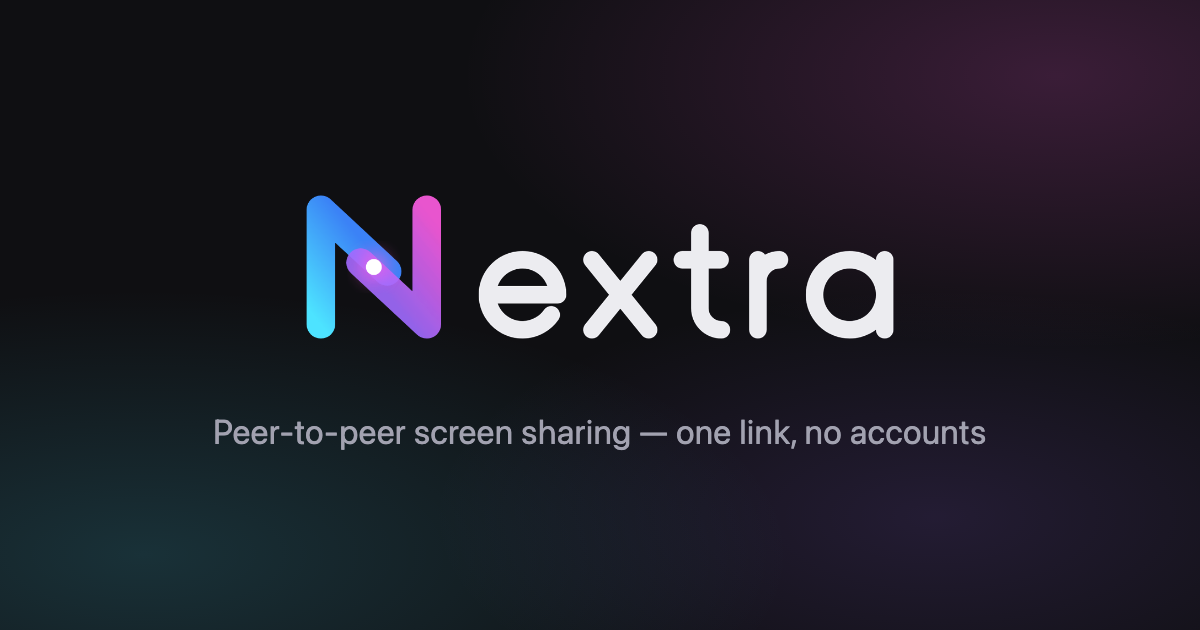
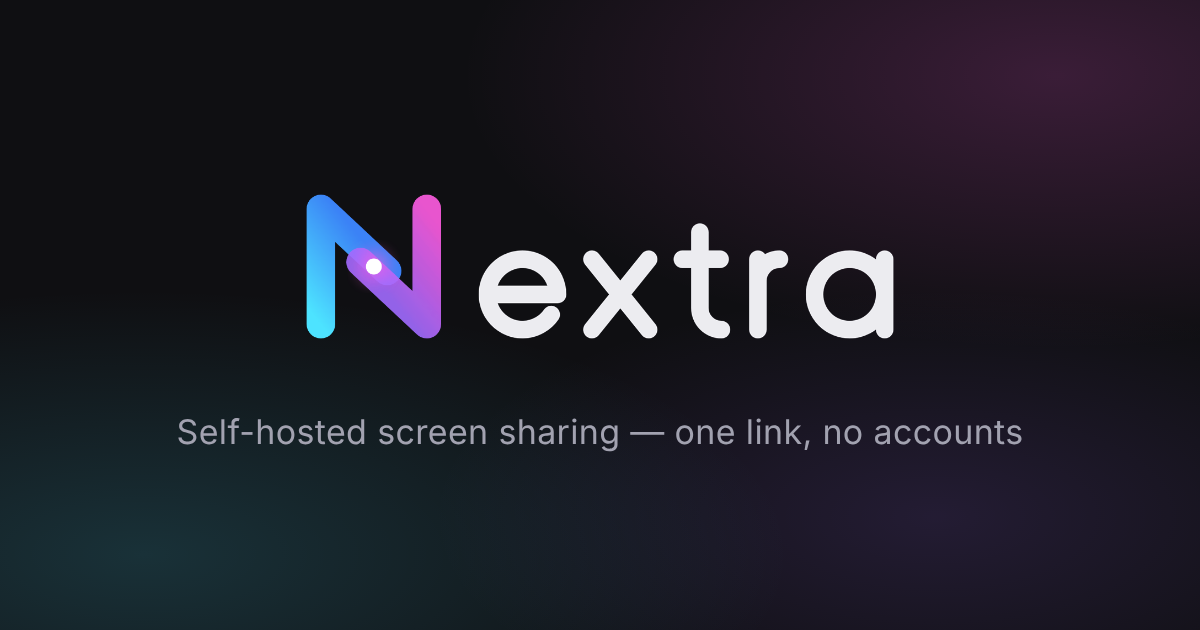
chore(brand): regenerate the social card without "peer-to-peer"
The card still said "Peer-to-peer screen sharing" although media always goes
through the Nextra server and the script's tagline was already fixed. Re-ran
npm run brand:social-card and bumped ?v= on og:image and twitter:image so
link previews fetch the new picture.

Claude-Session: https://claude.ai/code/session_0162Eg4ZAozi1SYUt9bwiko1

Changed region(s): [[0.1542, 0.6635, 0.8633, 0.7238]]

diff --git a/index.html b/index.html
@@ -15,9 +15,9 @@
   <meta property="og:description"
     content="High-performance screen sharing and live streaming up to 4K 60fps. Viewers join instantly in the browser." />
   <meta property="og:type" content="website" />
-  <meta property="og:image" content="/brand/nextra-social-card.png?v=lockup1" />
+  <meta property="og:image" content="/brand/nextra-social-card.png?v=selfhosted1" />
   <meta name="twitter:card" content="summary_large_image" />
-  <meta name="twitter:image" content="/brand/nextra-social-card.png?v=lockup1" />
+  <meta name="twitter:image" content="/brand/nextra-social-card.png?v=selfhosted1" />
   <link rel="icon" type="image/png" sizes="16x16" href="/icons/favicon-16.png" />
   <link rel="icon" type="image/png" sizes="32x32" href="/icons/favicon-32.png" />
   <link rel="alternate icon" href="/favicon.ico" sizes="any" />
